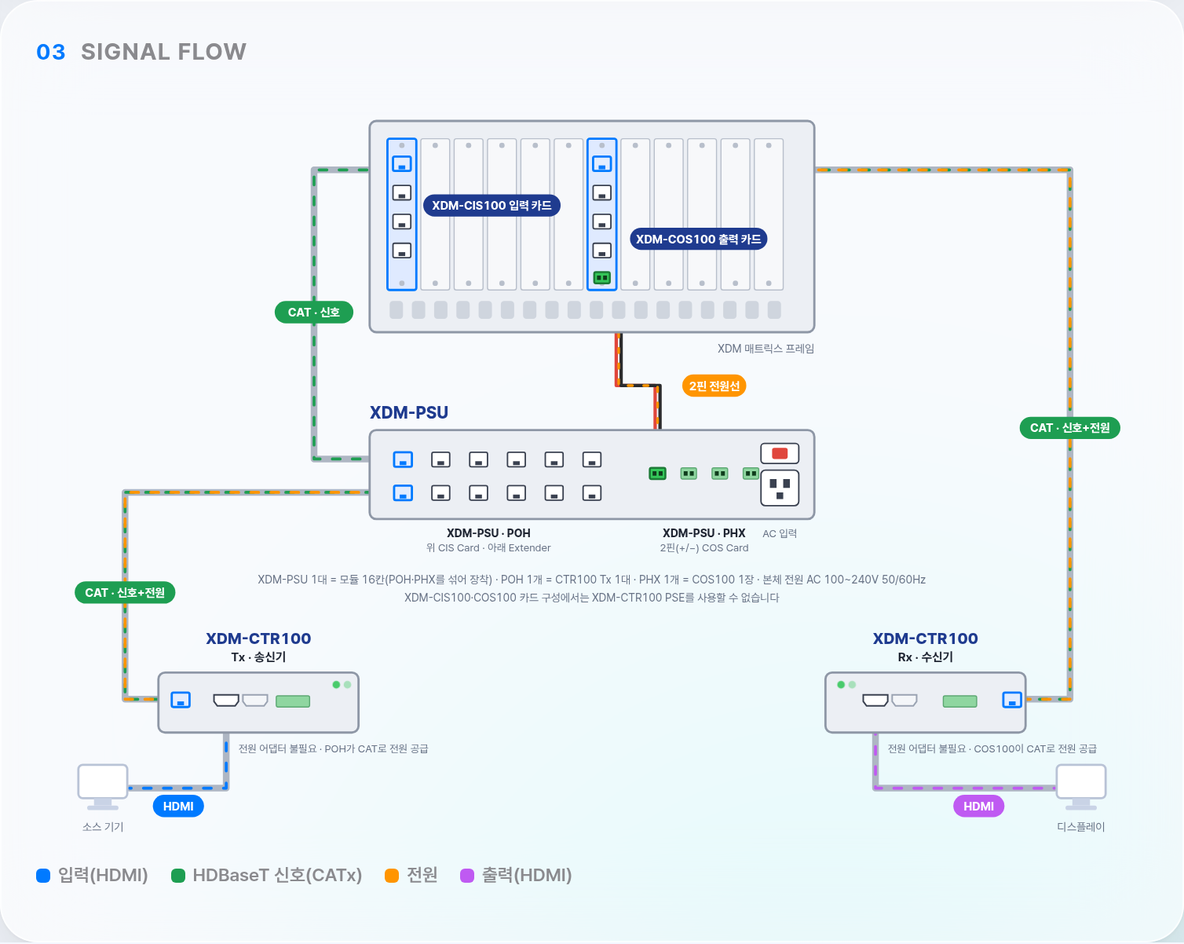
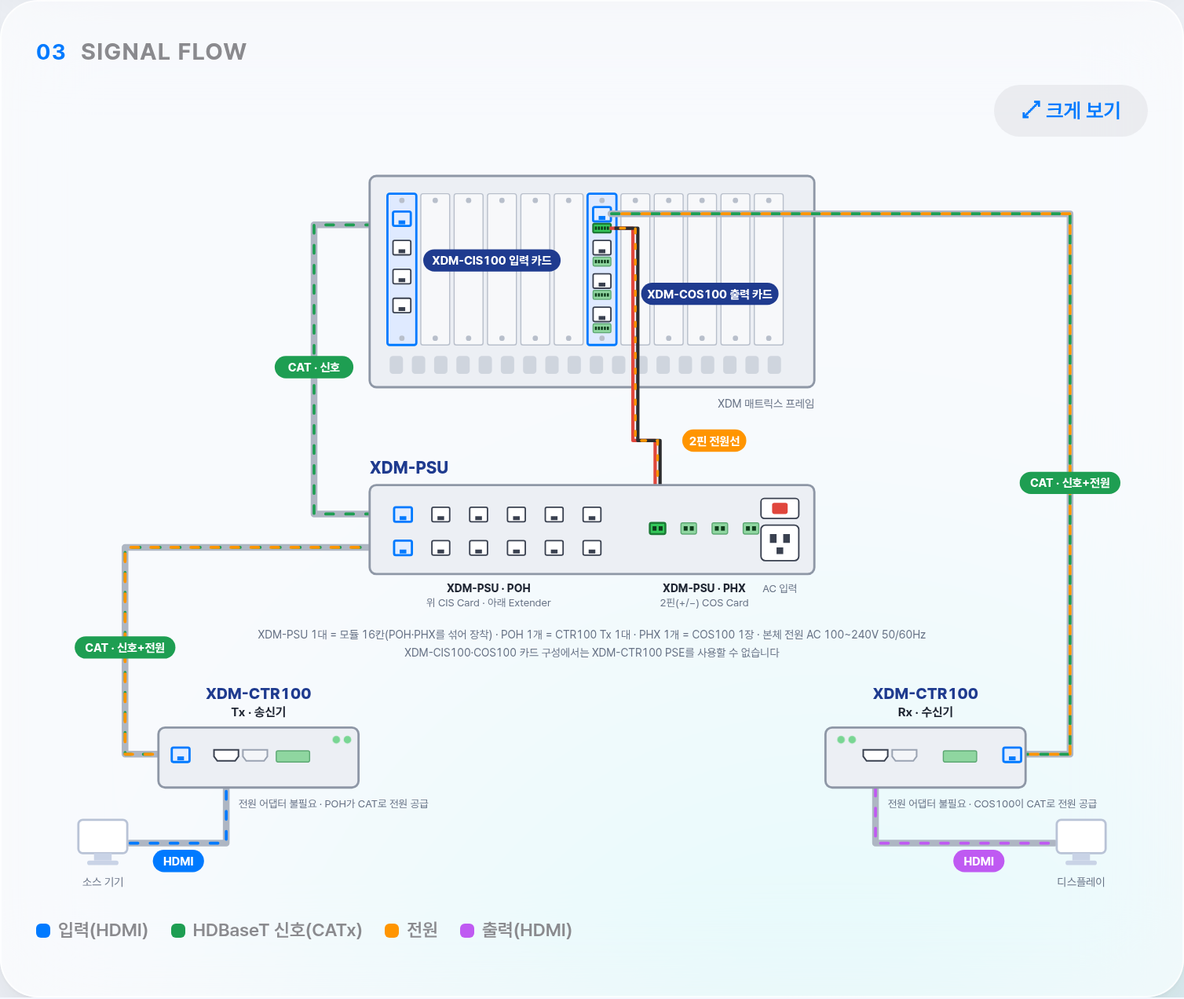
XDM-PSU Signal Flow: COS100 피닉스 전원 연결 정정 + 크게 보기 확대 창, 0.99.0
COS100을 포트마다 RJ45+피닉스 5핀으로 그리고 PHX 2핀 전원선이 1번 포트 피닉스에
꽂히게 함(사용자 확인 "COS PHNIX픽에 전원연결"). XDM-PSU만 "크게 보기" 버튼·전체 화면
창(100~300%, Esc 닫기)을 추가. e2e 151/151.

Claude-Session: https://claude.ai/code/session_01V3dms2CC6NHWtyRSKKrJnV

diff --git a/src/products.js b/src/products.js
@@ -300,6 +300,7 @@
       const width=1000,height=680,INK='#1f2532',SUB='#687386',BODY='#eceff4',EDGE='#8e97a6',HI='#007AFF',TAG='#1f3b8f';
       const rj45=(x,y,on)=>`<g><rect x="${x}" y="${y}" width="16" height="13" rx="1.5" fill="${on?'#e3edff':'#fff'}" stroke="${on?HI:'#3a4150'}" stroke-width="${on?2:1.3}"/><rect x="${x+5}" y="${y+8}" width="6" height="3.5" fill="${on?HI:'#3a4150'}"/></g>`;
       const pin2=(x,y,on)=>`<g><rect x="${x}" y="${y}" width="14" height="10" rx="1.5" fill="${on?'#34C759':'#8fd6a0'}" stroke="${on?'#1c7a36':'#5da873'}" stroke-width="${on?1.8:1}"/><rect x="${x+2.5}" y="${y+3}" width="3.5" height="4" fill="#0f3d1c"/><rect x="${x+8}" y="${y+3}" width="3.5" height="4" fill="#0f3d1c"/></g>`;
+      const phoenix5=(x,y,on)=>`<g${on?' class="rt-psu-cos-pin"':''}><rect x="${x}" y="${y}" width="16" height="8" rx="1.2" fill="${on?'#34C759':'#8fd6a0'}" stroke="${on?'#1c7a36':'#5da873'}" stroke-width="${on?1.6:1}"/>${[0,1,2,3,4].map(i=>`<rect x="${x+1.6+i*2.7}" y="${y+2.5}" width="1.8" height="3" fill="#0f3d1c"/>`).join('')}</g>`;
       const hdmi=(x,y,on)=>`<path d="M${x} ${y}h22v6l-3 4h-16l-3-4z" fill="${on?'#fff':'#f4f6f9'}" stroke="${on?'#3a4150':'#9aa3b2'}" stroke-width="1.4"/>`;
       const pill=(x,y,text,fill=TAG)=>{const w=Math.max(46,text.length*6.6+18);return `<g><rect x="${x-w/2}" y="${y-10}" width="${w}" height="20" rx="10" fill="${fill}"/><text x="${x}" y="${y+4}" text-anchor="middle" font-size="10.5" font-weight="750" fill="#fff">${svgEsc(text)}</text></g>`};
       // 케이블 한 가닥: 회색 피복 위에 흐름 점선을 겹친다. flows=[[색, 방향(1 정방향·-1 역방향), 시작 어긋남]]
@@ -307,15 +308,11 @@
       const twoPin=d=>`<path d="${d}" fill="none" stroke="#e0463c" stroke-width="3" stroke-linejoin="round" transform="translate(-2.2 0)"/><path d="${d}" fill="none" stroke="#2c2c2e" stroke-width="3" stroke-linejoin="round" transform="translate(2.2 0)"/><path class="rt-psu-flow" d="${d}" fill="none" stroke="${COLOR_POWER}" stroke-width="2.4" stroke-linecap="round" stroke-dasharray="4 10"/>`;
       let body='';
       // ---- 케이블(장비보다 먼저 그려 장비 몸체 아래로 들어가게 한다) ----
-      const cisPort=[336,62],cosPort=[516,62],cosPin=[517,170],pohCis=[322,322],pohExt=[322,352],phx=[552,336],txRj=[122,538],rxRj=[870,538];
+      const cisPort=[336,62],cosPort=[501,52],cosPin=[501,67],pohCis=[322,322],pohExt=[322,352],phx=[552,336],txRj=[122,538],rxRj=[870,538];
       // ① POH "CIS Card" ↔ CIS100: 신호만(Tx에서 온 영상이 CIS100으로 들어감)
       body+=cable(`M${pohCis[0]} ${pohCis[1]+6}H250V${cisPort[1]+6}H${cisPort[0]}`,[[COLOR_COPPER,1]]);
       // ② CTR100 Tx ↔ POH "Extender": 신호는 Tx → PSU, 전원은 PSU → Tx(역방향)
       body+=cable(`M${txRj[0]} ${txRj[1]+6}H80V${pohExt[1]+6}H${pohExt[0]}`,[[COLOR_COPPER,1],[COLOR_POWER,-1,9]]);
-      // ③ PHX 2핀 → COS100 2핀 전원선
-      body+=twoPin(`M${phx[0]+7} ${phx[1]}V262H${cosPin[0]+7}V${cosPin[1]+10}`);
-      // ④ COS100 → CTR100 Rx: 신호와 전원이 함께 Rx로
-      body+=cable(`M${cosPort[0]+16} ${cosPort[1]+6}H930V${rxRj[1]+6}H${rxRj[0]+16}`,[[COLOR_COPPER,1],[COLOR_POWER,1,9]]);
       // HDMI: 소스 → Tx HDMI IN, Rx HDMI OUT → 디스플레이
       body+=cable('M84 624H171V574',[[COLOR_IN,1]]);
       body+=cable('M755 574V624H916',[[COLOR_OUT,1]]);
@@ -324,12 +321,17 @@
       for(let i=0;i<12;i++){
         const x=316+i*30,card=i===0?'CIS':i===6?'COS':'';
         body+=`<rect x="${x}" y="40" width="26" height="136" rx="2" fill="${card?'#dfeaff':'#f7f8fa'}" stroke="${card?HI:'#b8bfcb'}" stroke-width="${card?2:1}"/><circle cx="${x+13}" cy="46" r="2.4" fill="#b8bfcb"/><circle cx="${x+13}" cy="170" r="2.4" fill="#b8bfcb"/>`;
-        if(card)for(let p=0;p<4;p++)body+=rj45(x+5,56+p*26,p===0);
-        if(card==='COS')body+=pin2(x+6,160,true).replace(/<circle[^>]*>/g,'');
+        if(card==='CIS')for(let p=0;p<4;p++)body+=rj45(x+5,56+p*26,p===0);
+        // 0.99 COS100: 포트마다 RJ45 아래에 피닉스 5핀(오디오 추출 및 PoE)이 있고, PHX 2핀 전원선은 이 피닉스 단자에 꽂는다(사용자 확인 2026-09-28 "COS PHNIX픽에 전원연결", 카탈로그 COS100 사진).
+        if(card==='COS')for(let p=0;p<4;p++)body+=rj45(x+5,52+p*30,p===0)+phoenix5(x+5,67+p*30,p===0);
       }
       for(let v=0;v<18;v++)body+=`<rect x="${318+v*20}" y="186" width="12" height="16" rx="3" fill="#cfd5de"/>`;
       body+=pill(410,100,'XDM-CIS100 입력 카드');
-      body+=pill(596,130,'XDM-COS100 출력 카드');
+      body+=pill(606,130,'XDM-COS100 출력 카드');
+      // ③ PHX 2핀 → COS100 1번 포트 피닉스 단자(프레임 위로 그려 꽂히는 곳이 보이게 한다)
+      body+=twoPin(`M${phx[0]+7} ${phx[1]}V262H539V${cosPin[1]+4}H${cosPin[0]+17}`);
+      // ④ COS100 1번 RJ45 → CTR100 Rx: 신호와 전원이 함께 Rx로
+      body+=cable(`M${cosPort[0]+16} ${cosPort[1]+6}H930V${rxRj[1]+6}H${rxRj[0]+16}`,[[COLOR_COPPER,1],[COLOR_POWER,1,9]]);
       body+=`<text x="700" y="232" text-anchor="end" font-size="10" fill="${SUB}">XDM 매트릭스 프레임</text>`;
       // ---- XDM-PSU 후면(POH·PHX 모듈, AC 인렛) ----
       body+=`<text x="300" y="292" font-size="15" font-weight="800" fill="${TAG}">XDM-PSU</text>`;
@@ -362,7 +364,8 @@
       const ac=(item.specifications||[]).find(spec=>spec.name==='전원');
       body+=`<text x="${width/2}" y="440" text-anchor="middle" font-size="10" fill="${SUB}">XDM-PSU 1대 = 모듈 16칸(POH·PHX를 섞어 장착) · POH 1개 = CTR100 Tx 1대 · PHX 1개 = COS100 1장${ac?` · 본체 전원 ${svgEsc(ac.value)}`:''}</text>`;
       body+=`<text x="${width/2}" y="456" text-anchor="middle" font-size="10" fill="${SUB}">XDM-CIS100·COS100 카드 구성에서는 XDM-CTR100 PSE를 사용할 수 없습니다</text>`;
-      return diagramWrap(`<g class="rt-psu-anim">${body}</g>`,width,height,[[COLOR_IN,'입력(HDMI)'],[COLOR_COPPER,'HDBaseT 신호(CATx)'],[COLOR_POWER,'전원'],[COLOR_OUT,'출력(HDMI)']]);
+      // 0.99: XDM-PSU만 그림이 커서 "크게 보기"(전체 화면 확대 창)를 둔다(사용자 요청 2026-09-28 "xdm-psu만 03 Singal flow 확대해서 볼 수 있게해줘"). 그림을 눌러도 열린다.
+      return `<div class="rt-flow-zoom-bar"><button type="button" class="rt-pg-btn" data-flow-zoom>⤢ 크게 보기</button></div>`+diagramWrap(`<g class="rt-psu-anim">${body}</g>`,width,height,[[COLOR_IN,'입력(HDMI)'],[COLOR_COPPER,'HDBaseT 신호(CATx)'],[COLOR_POWER,'전원'],[COLOR_OUT,'출력(HDMI)']]);
     }
     function extenderDiagram(item){
       const io=item.io||[];
@@ -917,6 +920,12 @@
       if(sideBtn){const seg=sideBtn.closest('.rt-pg-seg'),scope=seg?.parentElement;if(scope){seg.querySelectorAll('[data-pm-side]').forEach(btn=>{const on=btn===sideBtn;btn.classList.toggle('rt-pg-on',on);btn.setAttribute('aria-pressed',String(on))});scope.querySelectorAll('[data-pm-face]').forEach(el=>{el.hidden=el.dataset.pmFace!==sideBtn.dataset.pmSide})}return}
       const diagramBtn=event.target.closest('[data-open-diagram]');
       if(diagramBtn){const record=body.querySelector('.rt-pg-record');if(record){record.open=true;record.querySelector('#rt-pg-diagram-photo')?.scrollIntoView({behavior:'smooth',block:'start'})}return}
+      // 0.99 XDM-PSU Signal Flow 확대 창: 그림을 복사해 전체 화면 창에 넣고 100%(화면 폭 맞춤)~300%로 키운다. 창 안에서 스크롤·손가락으로 옮겨 본다.
+      const flowZoom=event.target.closest('[data-flow-zoom]')||(event.target.closest('.rt-pg-svg-wrap')?.querySelector('.rt-psu-anim')&&event.target.closest('.rt-pg-svg-wrap'));
+      if(flowZoom){openFlowZoom(flowZoom.closest('section'));return}
+      const zoomStep=event.target.closest('[data-zoom-step]');
+      if(zoomStep){const dlg=zoomStep.closest('dialog');setFlowZoom(dlg,Number(dlg.dataset.zoom)+Number(zoomStep.dataset.zoomStep));return}
+      if(event.target.closest('[data-zoom-close]')){event.target.closest('dialog').close();return}
       const moreBtn=event.target.closest('[data-more-features]');
       if(moreBtn){const more=body.querySelector('[data-feature-more]');if(more){more.hidden=false;moreBtn.hidden=true}return}
       const layoutChip=event.target.closest('[data-layout-chip]');
@@ -930,6 +939,30 @@
         return;
       }
     });
+    const FLOW_ZOOMS=[1,1.5,2,3];
+    function setFlowZoom(dlg,index){
+      const i=Math.max(0,Math.min(FLOW_ZOOMS.length-1,index));
+      dlg.dataset.zoom=String(i);
+      dlg.querySelector('.rt-flow-zoom-canvas').style.width=`${FLOW_ZOOMS[i]*100}%`;
+      dlg.querySelector('[data-zoom-level]').textContent=`${FLOW_ZOOMS[i]*100}%`;
+      dlg.querySelector('[data-zoom-step="-1"]').disabled=i===0;
+      dlg.querySelector('[data-zoom-step="1"]').disabled=i===FLOW_ZOOMS.length-1;
+    }
+    function openFlowZoom(section){
+      const svg=section?.querySelector('.rt-pg-svg-wrap svg');
+      if(!svg)return;
+      let dlg=body.querySelector('dialog.rt-flow-zoom');
+      if(!dlg){
+        dlg=document.createElement('dialog');dlg.className='rt-flow-zoom';dlg.setAttribute('aria-label','Signal Flow 크게 보기');
+        dlg.addEventListener('click',event=>{if(event.target===dlg)dlg.close()});
+        body.appendChild(dlg);
+      }
+      const title=body.querySelector('#rt-pg-title')?.textContent||'';
+      dlg.innerHTML=`<div class="rt-flow-zoom-head"><b>${esc(title)} · 03 Signal Flow</b><div class="rt-flow-zoom-tools"><button type="button" data-zoom-step="-1" aria-label="축소">−</button><span data-zoom-level aria-live="polite">100%</span><button type="button" data-zoom-step="1" aria-label="확대">+</button><button type="button" class="rt-flow-zoom-close" data-zoom-close aria-label="닫기">×</button></div></div><div class="rt-flow-zoom-body"><div class="rt-flow-zoom-canvas">${svg.outerHTML}</div></div>`;
+      setFlowZoom(dlg,0);
+      if(typeof dlg.showModal==='function')dlg.showModal();else dlg.setAttribute('open','');
+      dlg.querySelector('[data-zoom-step="1"]').focus();
+    }
     body.addEventListener('keydown',event=>{
       const filterBtn=event.target.closest('[data-product-filter]');
       if(filterBtn&&(event.key==='Enter'||event.key===' ')){event.preventDefault();filterBtn.click()}

diff --git a/index.html b/index.html
@@ -1,7 +1,7 @@
 <!doctype html>
 <html lang="ko"><head><meta charset="utf-8"><meta name="viewport" content="width=device-width,initial-scale=1"><title>RTCOM 매트릭스 구성기</title><meta name="description" content="RTCOM XDM, SPX, VDM 매트릭스 카드 슬롯 구성기와 알티컴 공개 제품정보"></head><body><div id="rtcom-design" aria-label="RTCOM 매트릭스 구성기">
   <link rel="stylesheet" href="src/styles.css">
-  <header class="rt-top"><a class="rt-brand-lockup" href="./"><span class="rt-brand-mark" aria-hidden="true">▦</span><span><span class="rt-brand">RT<span>COM</span> Matrix Configurator</span><span class="rt-brand-sub">XDM · SPX · VDM CARD SLOT DESIGN</span></span></a><nav class="rt-view-tabs" aria-label="화면 전환"><a data-view-tab="configurator" href="#matrix-configurator" aria-current="page">매트릭스 구성기</a><a data-view-tab="products" href="#products">알티컴 제품정보</a></nav><div class="rt-top-links"><a class="rt-portal-link" href="https://seoulav.github.io/AV-Portal/" target="_blank" rel="noopener">AV Portal에서 제품 찾기 <span aria-hidden="true">↗</span><span class="rt-visually-hidden">(새 창)</span></a><div class="rt-meta"><b>AV 시스템 설계 도구</b><br>CATALOG BASED · 0.98</div></div></header>
+  <header class="rt-top"><a class="rt-brand-lockup" href="./"><span class="rt-brand-mark" aria-hidden="true">▦</span><span><span class="rt-brand">RT<span>COM</span> Matrix Configurator</span><span class="rt-brand-sub">XDM · SPX · VDM CARD SLOT DESIGN</span></span></a><nav class="rt-view-tabs" aria-label="화면 전환"><a data-view-tab="configurator" href="#matrix-configurator" aria-current="page">매트릭스 구성기</a><a data-view-tab="products" href="#products">알티컴 제품정보</a></nav><div class="rt-top-links"><a class="rt-portal-link" href="https://seoulav.github.io/AV-Portal/" target="_blank" rel="noopener">AV Portal에서 제품 찾기 <span aria-hidden="true">↗</span><span class="rt-visually-hidden">(새 창)</span></a><div class="rt-meta"><b>AV 시스템 설계 도구</b><br>CATALOG BASED · 0.99</div></div></header>
   <section class="rt-configurator-view" aria-label="매트릭스 구성기">
     <div id="matrix-configurator" class="rt-configurator-anchor"><h1 class="rt-visually-hidden" tabindex="-1">매트릭스 구성기 — 프레임을 선택하고 실제 슬롯 위치에 입력·출력 카드를 장착해 구성합니다.</h1></div>
     <div class="rt-workspace"><div class="rt-tools"><button class="rt-button" data-tool="undo" disabled>↶ 실행 취소</button><button class="rt-button" data-tool="redo" disabled>↷ 다시 실행</button><button class="rt-button" data-tool="backup">JSON 백업</button><button class="rt-button" data-tool="import">불러오기</button><button class="rt-button" data-tool="reset">새 구성</button></div><p id="save-status" role="status" aria-live="polite">이 브라우저에 자동 저장됩니다.</p><input id="import-file" type="file" accept=".json,application/json" hidden></div><nav class="rt-nav" aria-label="구성 단계"></nav>

diff --git a/src/styles.css b/src/styles.css
@@ -976,3 +976,18 @@ html{background:#f3f3ef}body{margin:0;padding:24px 16px;font-family:Arial,'Malgu
 @keyframes rt-psu-dash{to{stroke-dashoffset:-18}}
 @keyframes rt-psu-led{50%{opacity:.25}}
 @media(prefers-reduced-motion:reduce){#rtcom-design .rt-psu-flow,#rtcom-design .rt-psu-led{animation:none}}
+/* 0.99 XDM-PSU Signal Flow "크게 보기" 확대 창(XDM-PSU만). 창을 화면 가득 띄우고 −/+로 100~300% 확대, 창 안에서 스크롤해 옮겨 본다. */
+#rtcom-design .rt-flow-zoom-bar{display:flex;justify-content:flex-end;margin:-6px 0 8px}
+#rtcom-design .rt-pg-svg-wrap:has(.rt-psu-anim) svg{cursor:zoom-in}
+#rtcom-design .rt-flow-zoom{width:min(1400px,calc(100vw - 16px));height:calc(100vh - 24px);max-width:none;max-height:none;padding:0;border:0;border-radius:20px;background:#fff;color:var(--pg-ink,#1f2532);box-shadow:0 30px 80px #0f172a59;overflow:hidden}
+#rtcom-design .rt-flow-zoom[open]{display:flex;flex-direction:column}
+#rtcom-design .rt-flow-zoom::backdrop{background:#0f172aa6;backdrop-filter:blur(3px)}
+#rtcom-design .rt-flow-zoom-head{display:flex;align-items:center;justify-content:space-between;gap:10px;padding:12px 14px 12px 20px;border-bottom:1px solid #e8edf5}
+#rtcom-design .rt-flow-zoom-head b{font-size:15px;font-weight:800}
+#rtcom-design .rt-flow-zoom-tools{display:flex;align-items:center;gap:6px}
+#rtcom-design .rt-flow-zoom-tools button{width:38px;height:38px;border:0;border-radius:50%;background:#f0f4fa;color:#415069;font-size:20px;line-height:1;cursor:pointer}
+#rtcom-design .rt-flow-zoom-tools button:disabled{opacity:.35;cursor:default}
+#rtcom-design .rt-flow-zoom-tools span{min-width:46px;text-align:center;font-size:13px;font-weight:700;color:#415069}
+#rtcom-design .rt-flow-zoom-body{flex:1;overflow:auto;padding:12px;-webkit-overflow-scrolling:touch}
+#rtcom-design .rt-flow-zoom-canvas svg{display:block;width:100%;height:auto}
+@media print{#rtcom-design .rt-flow-zoom-bar{display:none}}

diff --git a/CLAUDE.md b/CLAUDE.md
@@ -50,7 +50,7 @@
 
 - 현재 화면 버전은 `index.html`의 우측 상단 표기와 `README.md`에 함께 기록합니다.
 - 원본 `main`에 기능 묶음을 병합할 때 마이너 버전을 올리고, 같은 커밋에서 `CHANGELOG.md`를 갱신합니다.
-- 구성기 단일 화면 전환은 `0.7.0`, Analog Way 방식 화면 개편은 `0.8.0`, 전송기 자동 연동은 `0.9.0`, HDMI 카드 PSE 쌍 연장은 `0.10.0`, SPX 매뉴얼 사진 슬롯은 `0.11.0`, VDM-256X 추가는 `0.12.0`, VDM 매뉴얼 후면 도면 슬롯은 `0.13.0`, 휴대폰 슬롯 겹침·뒤로가기 수정은 `0.14.0`, VDM 전면 도면은 `0.15.0`, 사진 슬롯 판넬 잘림 수정은 `0.16.0`, 장착 슬롯 번호표 숨김·구성 요약 카드 확대는 `0.17.0`, XDM 판넬 손나사 잘림 수정·VDM 전송기 연동·로고 홈 이동 확인은 `0.18.0`, 알티컴 공개 제품정보(29종) 재게시는 `0.19.0`, 제품정보 상세 표기를 에이앤미디어(antez.co.kr) 방식으로 정리한 것은 `0.20.0`, 데이터 기반 연결 다이어그램 추가는 `0.21.0`, 제품 사양 표를 구분·사양 2단으로 정리한 것은 `0.22.0`, 휴대폰 가로 스크롤(긴 출처 경로) 수정은 `0.23.0`, HD-14U·HD-18U 모델명 정정과 VDM CT102-U·FT102-U 계열 제외는 `0.24.0`, 제조사 카탈로그 원본 연결 다이어그램 적용은 `0.25.0`, 제품 사양 표 디자인(분류 색 점) 다듬기는 `0.26.0`, 새 카탈로그로 나머지 25종 재검증·XDM-CTR100 조합 다이어그램은 `0.27.0`, 연결 다이어그램 가로 스크롤 안내(그러데이션 표시)와 XDM-CTR100 케이블별 최대 전송거리(CI6522 80m) 추가는 `0.28.0`, VDM HOS4-U·HOS4S-UW 카드 설명을 스위칭 방식(일반·심리스)으로 정리하고 XDM-288을 구성기에서 삭제한 것은 `0.29.0`, XDM-CTR100 연결 다이어그램 조합 1을 매트릭스 카드 직결 배선으로 바로잡고 제조사 원본 다이어그램에 출처 캡션·표기 다름 경고를 추가하고 6개 제품과 SPX 다이어그램을 다시 잘라낸 것은 `0.30.0`, VDM 전송기 4종(CT101-U/CR101-U·CT103-U-H/CR103-U·FT101-U/FR101-U·FT103-U-H/FR103-U)에 RS-232 단자 행을 추가하고 이 4종과 CT104-U/CR104-U를 46쪽판과 재대조하고 27종 전체의 카탈로그 쪽 표기를 46쪽판 기준으로 통일한 것은 `0.31.0`, `docs/audit/PRODUCT_DIAGRAM_REVIEW_2026-09-27.md` §6 판단표대로 13개 제품의 검토 필요 항목을 정리해 REVIEW REQUIRED 배지를 없앤 것은 `0.32.0`, 제품정보 화면을 사용자 LED 구성기 계승 글래스 디자인으로 개편한 것(`docs/handoff/PRODUCT_GLASS_REDESIGN_SPEC.md` 6-A: 기반·HD-210U·XDM·VDM·SPX)은 `0.33.0`, 나머지 23종(분배기·일체형·전송기·케이블)에 lead·subtitle·portMap을 채우고 분배기·일체형 신호 흐름을 승인 시안 방식으로 바꾸고 QMS 화면 구성 모드(videoModes)를 추가한 것(6-B)은 `0.34.0`, HD-13U 상세에 전면 EDID 로터리 스위치 위치 표시와 EDID 코드표(edidSwitch, 사용자 제공 매뉴얼 근거)를 추가한 것은 `0.35.0`, HD-104U·HD-108U 모델명 표기를 0.24.0 정정 이전으로 되돌리고(사용자 확인 2026-09-27: 카탈로그 표기는 HD-104U·HD-108U이며 실크만 14U·18U로 변경 예정) HD-210U 전면 설정 스위치(딥 스위치·EDID 로터리) 추가와 신호 흐름 매트릭스 판정 복원을 함께 묶은 것은 `0.36.0`, 매트릭스 구성기 화면을 Analog Way 구조 + LED 글래스 스킨으로 개편하고 블랭크 커버(`placements`의 예약값 `"BLANK"`)로 슬롯 구성을 완성하는 기능을 추가한 것(`docs/handoff/CONFIGURATOR_AW_GLASS_SPEC.md`, 사용자 결정 2026-09-27)은 `0.37.0`, 0.37.0에서 시안과 다르게 남겨 둔 04 전송기 화면을 사용자 검토 후 좌우 분할 구조(01·02와 같은 틀)로 다시 지은 것(`docs/implementation/CONFIGURATOR_AW_GLASS.md` "04 전송기(편차 — 0.38.0에서 해소)")은 `0.38.0`, 제품 상세 "01 한눈에 보기" 위에 큰 사진 띠와 누르면 확대되는 돋보기(라이트박스)를 추가하고 화면에 보이는 제품 사양·주요 기능의 "up to" 표기를 "최대"로 통일하고 제품정보 "확인 사항" 118건을 2건으로 정리(HD-210U 크기 355mm 정정, `docs/audit/PRODUCT_ISSUES_ARCHIVE_2026-09-27.md`)한 것은 `0.39.0`, HD-13U "05 주요 기능"에 오디오 병합(믹스)·추출(디먹스) 동시 사용 안내(매뉴얼 7쪽 근거)를 추가한 것은 `0.40.0`, 분배기(HD-13U·HD-104U·HD-108U·HD-210U) EDID 로터리 코드표에서 자주 쓰는 1·7번을 강조하고 "02 신호 흐름"에 오디오 병합·추출(AUDIO OUT·"추출" 표시)을 추가한 것은 `0.41.0`, 사진 없이 입출력 표 카드로만 보이던 7종(HD-D102U·XDM-CTR100·전송기 5종)의 단자 지도를 HD-13U처럼 실제 제품 사진 기준으로 바꾸고 `portMap`이 송신기·수신기 사진 여러 장을 받게 한 것은 `0.42.0`, HDS-21U·HDS-42MU에 EDID 로터리(edidSwitch)를 추가하고 오디오 병합 설명을 "HDMI OUTPUT에 실리는 오디오" 기준으로 정정하고 분배기·선택기 필터를 HDMI 출력 개수 순으로 정렬하고 XDM-CTR100 "02 신호 흐름" 케이블 최대 전송거리 표기를 다이어그램 하단 한쪽으로 모은 것은 `0.43.0`, 분배기·선택기 필터 정렬을 분배기(Splitter)가 먼저 나오고 셀렉터(Switcher)가 나중에 나오도록(같은 종류 안에서는 HDMI 출력 개수 순) 바꾼 것은 `0.44.0`, 사용자 제공 매뉴얼 3권으로 벽부형 XDM-CT103·CT103-U-H/CR103-U·FT103-U-H/FR103-U의 단자 지도·사양·EDID 표를 보완하고 단자 지도에 세로 괄호·표시 폭·안내 줄을 추가한 것은 `0.45.0`, XDM-CTR100 PSE 제품 안내서와 XDM-CTR100 매뉴얼 Ver.1.4로 CTR100 단자 역할(HDMI IN·OUT, 5핀 오디오 출력, 상태 LED)·딥 스위치 설정·PSE 크기·전원을 보완한 것은 `0.46.0`, 옛 PR #22에만 있던 사용자 결정(XDM-CTR100과 XDM-CTR100 PSE를 별도 제품으로 분리해 28종, QMS-88UX 쿼드 뷰 출력 9·10번 사용법, 모델명 줄바꿈 방지)을 현재 main 기준으로 다시 옮기고 HD-13U 오디오 병합·추출을 선택 방식으로 정정해 07 오디오 설정 카드를 추가하고 모든 제품의 단자 지도 번호를 HDMI 입력 → 출력 → 오디오 → … → 전원(마지막) 순으로 통일한 것은 `0.47.0`, QMS-88UX 출력 9·10번 멀티뷰의 12가지 레이아웃·입력 그룹·출력 옵션을 사용자 제공 매뉴얼 20~23쪽 근거로 "주요 기능"에 적은 것은 `0.48.0`, HDS-21U·HDS-42MU 오디오 병합·추출을 딥 스위치 1번 선택 방식으로 정정하고 07 오디오 설정 카드를 추가하고 사용자 제공 매뉴얼 Ver.1.0으로 Priority·분배 기능 딥 스위치를 보완하고 제품 사진 팝업을 사용자 LED 계산기 "05 프로세서" 방식(사진 탭·원형 돋보기)으로 바꾼 것은 `0.49.0`, QMS-88UX "02 신호 흐름"에서 멀티뷰 출력 9·10번을 매트릭스 출력과 분리된 별도 갈래(패널·캡션)로 다시 그리고 "05 주요 기능" 멀티뷰 항목을 요약하고 오디오 출력 2개(QD1·QD2)가 선택 가능한 출력임을 반영한 것은 `0.50.0`, QMS-88UX "04 제품 사양"의 조건 칸(부설)을 모두 비우고 LAN(Telnet & Web Browser) 표기를 사양·기능·개요·단자 지도에서 모두 뺀 것은 `0.51.0`, HDS-42MU 크기를 사용자 결정에 따라 매뉴얼 값 232×65×30mm로 바꾸고 제품 상세의 "자료 출처·검토 기록"을 "제조사 자료"로 이름을 바꿔 화면의 출처 표시를 뺀 것은 `0.52.0`, QMS-88UX 오디오 QD1·QD2 설명 정리·"02 신호 흐름" 오디오 추출 점선과 멀티뷰 8입력분할 표현 정리·입출력 단자 표 정렬 통일(TX→구분 없음→RX, 영상→오디오→전송→제어, 입력→출력→양방향)·"제조사 자료"에서 표기 다름·참고 사항도 추가로 뺀 것과 조건 칸의 출처 문구를 지우고 "05 주요 기능"을 한 줄 요약으로 줄인 것(상세는 06·07 카드·사양·단자 지도로 이동)은 `0.53.0`, XDM-CTR100·CTR100 PSE "04 제품 사양"의 딥 스위치 행을 다시 삭제(딥 스위치는 05 주요 기능에서만 안내)하고 전 제품 "05 주요 기능"을 추가로 압축하고 매트릭스 COS/CIS/FIS/FOS 카드와 짝인 전송기 3종(XDM-CTR100·CTR100 PSE·FT101/FR101)에 RS-232+ 패스스루(AMX 등 통합 제어 신호를 매트릭스·전송기 너머로 전달) 안내를 추가하고 "02 신호 흐름"의 케이블 최대 전송거리 표기를 범례 "출력" 항목 오른쪽으로 옮긴 것은 `0.54.0`, 구성기 확인 창을 사이트 글래스 스타일 대화상자로 바꾸고 카드 팝업에 수량 채우기와 같은 방향 슬롯 이동(끌어 옮기기·팝업 이동)을 추가하고 XDM 세로 슬롯 카드를 180도 돌리고 2U 이상만 정면·후면 버튼(그보다 작으면 정면 사진과 포트 연결면을 함께 표시)으로 하고 구성기 작업 단계 표기를 한글로 바꾸고 Delete 키 카드 빼기와 XDM RS-232+(CIS·COS·FIS·FOS 카드와 짝 전송기) 표기를 더한 것은 `0.55.0`, 전 제품 "05 주요 기능" 카탈로그 어투 통일("~ 지원")·"01 한눈에 보기" 위 사진 띠 삭제·"02 신호 흐름"과 "03 단자 지도" 순서 교체 및 영문 표기(Signal Flow·Port Map)·화면 구성 모드 등 06 카드를 05 옆으로 배치·QMS-88UX 06 화면 구성 모드 레이아웃 12종 클릭 미리보기 추가·HDS-21U·HDS-42MU 단자 지도를 정면·후면 선택 버튼 없이 위아래 합성 사진 한 장(번호 1~7, EDID 로터리 6번·전원 7번)으로 바꾼 것은 `0.56.0`, 05 옆으로 옮긴 06 카드가 휴대폰에서 01보다 먼저 뜨던 순서 버그를 고치고(rt-pg-col-mobile-6 클래스 추가) 15개 제품 "05 주요 기능"의 "~할 수 있다." 표현 24곳을 명사형으로 정리한 것은 `0.57.0`, HDS-21U·HDS-42MU 단자 지도에 MODE 딥 스위치 번호(7번)를 추가하고 07 오디오 설정 카드를 딥 스위치 그림(번호별 OFF·ON) 카드인 07 딥 스위치 설정으로 바꾸고(1번 오디오 병합·추출, 2번 Priority, 42MU만 3번 분배) 04 제품 사양의 딥 스위치 행과 05 주요 기능의 긴 설명을 이 카드로 옮기고 매트릭스 제품(QMS-44UX·QMS-88UX·HDS-42MU) "03 Signal Flow"를 입력이 한 점으로 모이는 모양 대신 크로스포인트(출력마다 입력 선택 예시)로 다시 그리고 HDS-42MU 정면 사진의 잘못 인쇄된 실크(MODE·EDID)를 사진 안에서 서로 바꾼 것은 `0.58.0`, EDID 로터리 태그 잘림·06 EDID 카드 배치·긴 코드표 좌우 분할을 고치고 EDID 설정 카드에 기본값·자주 쓰는 코드를 파란 16단 로터리 그림(화살표가 코드를 가리킴)으로 보여주고 HDS-21U·HDS-42MU(3·9번)·FT103-U-H/FR103-U(3·6번)에 자주 쓰는 코드 강조를 더하고 EDID 코드표 세로 크기를 줄인 것은 `0.59.0`, 04 제품 사양 표 줄 간격을 약 15% 줄이고 03 Signal Flow에서 AUDIO OUT "추출" 표시가 잘리던 그림 너비 계산을 고친 것은 `0.60.0`, HD-13U 07 오디오 설정을 06 EDID 다음 전체 폭으로 옮겨 잘림·번호 뒤집힘을 고치고 EDID 대표 설정과 같은 칸 4개(MODE 로터리 0번 → SET 누름 → OUT 1 LED 깜빡임·깜빡이지 않음)를 넣고 HD-210U에 매뉴얼 Ver.1.2 근거 07 딥 스위치 설정 카드(1번 오디오 병합, 2번 DDC)를 추가한 것은 `0.61.0`, 딥 스위치 카드가 있는 HD-210U·HDS-21U·HDS-42MU의 05 주요 기능에서 스위치 번호 참조를 지우고 HD-210U(5줄)·HD-13U(3줄) 05 주요 기능을 기능 이름만 남겨 정리하고 HDS-21U·HDS-42MU 딥 스위치 칸을 ON → OFF 순서로 바꾼 것은 `0.62.0`, QMS-44UX·QMS-88UX "06 화면 구성 모드" 카드가 05 옆 좁은 칸에 들어가면서 모드 카드 설명·레이아웃 칩이 카드 밖으로 넘치던 문제를 edidSwitch와 같은 기준(항상 전체 폭 아래)으로 고친 것은 `0.63.0`, SPX-TX/RX 전송기를 29번째 제품으로 추가(매뉴얼 Ver.2.0: 사양·단자 지도·딥 스위치 조합)하고 XDM-FT101/FR101에 매뉴얼 Ver.1.3 근거 EDID·오디오 로터리 카드(전체 8칸 그림)를 넣고 SPX 안내·범례의 HDBaseT 표기를 CATx로 바로잡고 OBUX-1C에 매뉴얼 Ver.2.2 근거 Tx Mode 딥 스위치 카드(1번 오디오, 2·3·4번 EDID 조합)를 넣고 전 제품 05 주요 기능의 "~한다/~다." 문장을 "~ 지원"·명사형으로 통일한 것은 `0.64.0`, OBHD-2C에 매뉴얼 KV01 근거 06 EDID 설정(MODE 로터리 0~D 전체 14칸 그림·코드표)을 추가하고 XDM-CT103/CR103 04 제품 사양의 전원(어댑터) 중복 행(CT103·CR103 각각 있던 동일 값)을 공통 행 하나로 합친 것은 `0.65.0`, XDM-CTR100·XDM-CTR100 PSE에 매뉴얼 Ver.1.4 근거 06 딥 스위치 설정(1·2번 TX/RX 모드 조합, 3번 전송 거리)을 추가하고 두 제품이 별도 페이지로 나뉜 뒤에도 남아 있던 04 제품 사양의 "공통"·자기 모델명 반복 표기를 정리하고 04 사양 "지원 케이블"을 "권장 케이블"로 바꾸고 분배기 4종(HD-13U·HD-104U·HD-108U·HD-210U) 단자 지도를 앞면·뒷면 합성 사진 한 장으로 바꿔 정면 로터리(·SET·MODE)에도 번호를 붙인 것은 `0.66.0`, QMS-88UX 06 화면 구성 모드 QUAD 레이아웃 목록에 매뉴얼 22~23쪽 Output Option 2·3 근거로 "8분할(비율무시)"을 13번째 항목으로 추가하고 분배기 4종(HD-13U·HD-104U·HD-108U·HD-210U) 05 주요 기능에 다단 증폭(캐스케이드 연결) 최대 3단 지원을 추가한 것은 `0.67.0`, XDM-FT101/FR101 단자 지도에 정면 MODE 로터리·S/P 번호를 추가하고 HD-D102U 05 주요 기능을 명사형으로 전면 재작성하고 HDS-21U·HDS-42MU "Audio Extraction"과 HD-210U EDID "Nothing" 표기를 통일하고 HDS-21U 딥 스위치 3번(분배)이 매뉴얼에 없는 기능이었음을 사용자 제공 매뉴얼로 확인해 삭제한 것은 `0.68.0`, HDS-21U·HDS-42MU 06 EDID 설정 안내 문장에서 "10번=A, 11번=B"처럼 10진수를 다시 설명하던 괄호를 완전히 지운 것은 `0.69.0`, 구성기 "섀시"를 "프레임"으로 통일하고 카드 팝업에 수량·순서대로 장착 버튼을 넣고 02 프레임 선택에 "함께 보면 좋은 제품"을 추가하고 빈 슬롯 공패널색을 통일하고 OBHD-2C EDID 로터리 번호를 매뉴얼 Ver.2.1 기준으로 정정하고 HD-D102U "스마트 EDID" 문구를 알기 쉽게 풀어 쓰고 HD-13U·XDM-CTR100 PSE "인증: KC 인증" 행을 삭제하고 HD-D102U 04 사양표를 HD-13U와 같은 구성으로 정리한 것은 `0.70.0`, OBHD-2C 04 제품 사양의 크기·무게·HDMI 규격을 사용자 결정에 따라 매뉴얼 Ver.2.1 값(128×89×25mm·0.36kg·HDMI 1.3)으로 바꾼 것은 `0.71.0`, OBHD-2C·OBUX-1C 04 제품 사양의 입력단자·출력단자(HDMI(female) 등 표기) 행을 삭제하고 전 제품(16종)의 mm/kg 옆 인치·lbs 병기를 지운 것은 `0.72.0`, XDM-PSU 전원 장치를 반영해 BOM의 임시 "전원 공급 장비"를 XDM-PSU(16칸당 1대)·XDM-POH(CTR100 Tx 1대당 1개)·XDM-PHX(COS100 1장당 1개)로 나누고 XDM-PSU를 30번째 제품으로 추가하고, HDS-21U·OBUX-1C 송신기·수신기 고해상도 실물 사진을 반영하고, CT103-U-H/CR103-U 04 제품 사양을 요약 형태로 정리한 것은 `0.73.0`, QMS-44UX 전면·후면 사진을 사용자가 직접 촬영한 고화질 사진으로 바꾸고 03 단자 지도 좌표를 재보정하고 새 사진에서 확인된 DOWNLOAD(Mini-USB) 포트를 추가한 것은 `0.74.0`, HD-108U 전면·후면 사진을 제조사에서 입수한 고화질 사진으로 바꾸고 03 단자 지도와 06 EDID 설정 로터리 스위치 좌표를 재보정한 것은 `0.75.0`, HDS-42MU 전면·후면 사진을 고화질로 바꾸고 단자 지도·EDID 좌표를 재보정한 것은 `0.76.0`, HD-13U·SPX-M810 전면·후면 사진을 고해상도로 바꾸고 HD-13U 단자 지도·EDID 좌표와 SPX-M810 구성기 카드 슬롯 좌표를 재측정한 것은 `0.77.0`, 사용자가 제공한 HD-104U 고해상도 전면·후면 사진(긴 변 약 2000px)으로 기존 저해상도 이미지를 교체하고 단자 지도·EDID 로터리 스위치 좌표를 새 사진 기준으로 다시 측정한 것은 `0.78.0`, 제품 상세에 등록된 제조사 카탈로그·매뉴얼 PDF만 "제품 목록" 옆 버튼(새 탭 보기·내려받기)으로 보여 주는 구조를 추가한 것은 `0.79.0`, 매트릭스 카드 상세 정보 버튼과 XDM·SPX·VDM 카드 26종 사양을 등록한 것은 `0.80.0`, 로컬 작업 환경(`DEVICE_WORKFLOW.md`, `.gitattributes`, `.claude/settings.json`)과 `input_doc` 자료 자동 분류(`.claude/skills/input-doc`, `scripts/input_doc.py`)를 추가한 것은 `0.81.0`, 제조사 자료 입출력 단자 표에서 방향("입력"·"출력"·"입출력")·수량(숫자) 칸이 좁은 화면에서 줄바꿈되던 문제를 30개 제품 전수 조사로 찾아 고친 것은 `0.82.0`, 제목에 송신기·수신기가 들어간 제품 10종의 라벨을 색으로 구분한 것은 `0.83.0`, input_doc 첫 정리(매뉴얼 20권·사양서 1장)로 VDM HOS4-U 카드 사양을 등록하고 CIS4-U·COS4-U·QOS4S-U를 매뉴얼 KV07 값으로 보완하고 input_doc 반영 장부(`docs/evidence/input-doc-ledger.json`)와 파일별 반영 표시(`input_doc/STATUS.md`)를 추가하고 검증된 PR의 병합·배포를 Claude가 이어서 하도록 규칙을 바꾼 것은 `0.84.0`, 카탈로그·매뉴얼 충돌 정리(`docs/audit/CATALOG_MANUAL_CONFLICTS_2026-09-28.md`) 결정대로 VDM -U 카드에 매뉴얼 해상도 행·SOS4 오디오 포트를 더하고 QMS-88UX 멀티뷰에 8분할(16:9 비율)을 추가한 것은 `0.85.0`, 카탈로그·매뉴얼 충돌 항목을 사용자 결정("새로준 자료 기준으로")에 따라 매뉴얼 값으로 통일한 것(HD-104U 전원 1A, XDM 전송기 3840x2160, VDM 광 카드 10km·-U 카드 4096×2160·HOS4S-UW 1920×1080)은 `0.86.0`, RT컴 제공 고해상도 실물 사진으로 XDM-CTR100·XDM-FT101·XDM-FR101·XDM-CT103 제품 사진·목록 카드·구성기 04 전송기 썸네일을 교체하고 CTR100·FT101·CT103 단자 지도를 새 사진으로 다시 합성하고 XDM-FR101 수신기 뒷면 단자 지도를 추가한 것은 `0.87.0`, 사용자 결정("1번")으로 input_doc 매뉴얼 17개를 공개 폴더에 올려 16개 제품 상세에 매뉴얼 PDF 버튼을 켠 것은 `0.88.0`, 사용자 확인("ctr100과 pse는 단자는 동일해")에 따라 XDM-CTR100·XDM-CTR100 PSE 단자 지도를 같은 합성 사진(앞면 PSE 제품 안내서 사진 + 뒷면 RT컴 CTR100 사진)으로 바꾼 것은 `0.89.0`, QMS-88UX 06 화면 구성 모드의 DUAL 카드("듀얼 모드" 한 마디뿐)를 매뉴얼 KV.04 20~21쪽 근거로 출력 9·10번 멀티뷰 설정의 2분할(PBP)·PIP 레이아웃 3종으로 채운 것은 `0.90.0`, XDM-CTR100 PSE 정면 사진을 사용자가 재확인("1번 맞아"·"적용시켜줘")한 원본 PNG에서 정확한 픽셀 경계로 다시 잘라 646×396으로 다시 저장한 것은 `0.91.0`, SPX-TX/SPX-RX 단자 지도 사진의 검은 배경을 흰색으로 바꾸고(사용자 요청) 전송기 6개 제품 사양의 ft(피트) 표기를 일괄 삭제한 것은 `0.92.0`, 전송기 9종 04 제품 사양 조건 칸의 "모델A·모델B 공통" 표기 55곳을 일괄 삭제하고 XDM-PSU에 "03 Signal Flow"(POH 입력 경로·PHX 출력 경로, 주황 전원 선) 그림을 추가한 것은 `0.93.0`, XDM-CTR100·XDM-CTR100 PSE 04 제품 사양의 최대 전송거리 3행을 1행으로 합치고 권장 케이블 행을 지우고 PSE 목록 썸네일을 정면 사진으로 바꾼 것은 `0.94.0`, 전체 카탈로그 46쪽판을 공용 파일(`rtcom-catalog-2026.pdf`) 하나로 공개해 29개 제품 상세의 카탈로그 PDF 버튼이 제품 쪽(`#page=N`)에서 열리고 제품 목록에 전체 카탈로그 버튼을 둔 것(사용자 결정 2026-09-28 "전체 카탈로그 공개해도 돼")은 `0.95.0`, QMS-88UX 06 화면 구성 모드의 QUAD·DUAL 설명 문장을 짧게 줄이고 매뉴얼 쪽 번호를 화면에 안 보이는 `page` 항목으로 옮기고 QMS-44UX QUAD 설명도 두 줄로 나눠 줄인 것(사용자 요청 "QMS-44, 88 모두 글이 너무 많아 좀 더 요약해줘")은 `0.96.0`, 전체 카탈로그 46쪽판에서 제품마다 해당 쪽만 뽑은 제품별 카탈로그 PDF 29개(`<제품id>-catalog.pdf`, XDM은 전송기 쪽을 뺀 4~9쪽, SPX-TX/RX는 16쪽)를 만들어 제품 상세 카탈로그 버튼에 연결한 것(사용자 결정 2026-09-28 "제품별로 잘라 공개")은 `0.97.0`, XDM-PSU "03 Signal Flow"를 제조사 연결도처럼 매트릭스 프레임(CIS100·COS100)·XDM-PSU(POH·PHX)·XDM-CTR100 Tx/Rx 장비 그림으로 다시 그리고 케이블을 따라 신호·전원이 흐르는 애니메이션을 넣은 것(사용자 요청 2026-09-28)은 `0.98.0`으로 기록했습니다. 다음 기능 묶음은 `0.99.0`을 목표로 하며, 실제 병합 전에는 검증된 canonical main commit을 확인합니다.
+- 구성기 단일 화면 전환은 `0.7.0`, Analog Way 방식 화면 개편은 `0.8.0`, 전송기 자동 연동은 `0.9.0`, HDMI 카드 PSE 쌍 연장은 `0.10.0`, SPX 매뉴얼 사진 슬롯은 `0.11.0`, VDM-256X 추가는 `0.12.0`, VDM 매뉴얼 후면 도면 슬롯은 `0.13.0`, 휴대폰 슬롯 겹침·뒤로가기 수정은 `0.14.0`, VDM 전면 도면은 `0.15.0`, 사진 슬롯 판넬 잘림 수정은 `0.16.0`, 장착 슬롯 번호표 숨김·구성 요약 카드 확대는 `0.17.0`, XDM 판넬 손나사 잘림 수정·VDM 전송기 연동·로고 홈 이동 확인은 `0.18.0`, 알티컴 공개 제품정보(29종) 재게시는 `0.19.0`, 제품정보 상세 표기를 에이앤미디어(antez.co.kr) 방식으로 정리한 것은 `0.20.0`, 데이터 기반 연결 다이어그램 추가는 `0.21.0`, 제품 사양 표를 구분·사양 2단으로 정리한 것은 `0.22.0`, 휴대폰 가로 스크롤(긴 출처 경로) 수정은 `0.23.0`, HD-14U·HD-18U 모델명 정정과 VDM CT102-U·FT102-U 계열 제외는 `0.24.0`, 제조사 카탈로그 원본 연결 다이어그램 적용은 `0.25.0`, 제품 사양 표 디자인(분류 색 점) 다듬기는 `0.26.0`, 새 카탈로그로 나머지 25종 재검증·XDM-CTR100 조합 다이어그램은 `0.27.0`, 연결 다이어그램 가로 스크롤 안내(그러데이션 표시)와 XDM-CTR100 케이블별 최대 전송거리(CI6522 80m) 추가는 `0.28.0`, VDM HOS4-U·HOS4S-UW 카드 설명을 스위칭 방식(일반·심리스)으로 정리하고 XDM-288을 구성기에서 삭제한 것은 `0.29.0`, XDM-CTR100 연결 다이어그램 조합 1을 매트릭스 카드 직결 배선으로 바로잡고 제조사 원본 다이어그램에 출처 캡션·표기 다름 경고를 추가하고 6개 제품과 SPX 다이어그램을 다시 잘라낸 것은 `0.30.0`, VDM 전송기 4종(CT101-U/CR101-U·CT103-U-H/CR103-U·FT101-U/FR101-U·FT103-U-H/FR103-U)에 RS-232 단자 행을 추가하고 이 4종과 CT104-U/CR104-U를 46쪽판과 재대조하고 27종 전체의 카탈로그 쪽 표기를 46쪽판 기준으로 통일한 것은 `0.31.0`, `docs/audit/PRODUCT_DIAGRAM_REVIEW_2026-09-27.md` §6 판단표대로 13개 제품의 검토 필요 항목을 정리해 REVIEW REQUIRED 배지를 없앤 것은 `0.32.0`, 제품정보 화면을 사용자 LED 구성기 계승 글래스 디자인으로 개편한 것(`docs/handoff/PRODUCT_GLASS_REDESIGN_SPEC.md` 6-A: 기반·HD-210U·XDM·VDM·SPX)은 `0.33.0`, 나머지 23종(분배기·일체형·전송기·케이블)에 lead·subtitle·portMap을 채우고 분배기·일체형 신호 흐름을 승인 시안 방식으로 바꾸고 QMS 화면 구성 모드(videoModes)를 추가한 것(6-B)은 `0.34.0`, HD-13U 상세에 전면 EDID 로터리 스위치 위치 표시와 EDID 코드표(edidSwitch, 사용자 제공 매뉴얼 근거)를 추가한 것은 `0.35.0`, HD-104U·HD-108U 모델명 표기를 0.24.0 정정 이전으로 되돌리고(사용자 확인 2026-09-27: 카탈로그 표기는 HD-104U·HD-108U이며 실크만 14U·18U로 변경 예정) HD-210U 전면 설정 스위치(딥 스위치·EDID 로터리) 추가와 신호 흐름 매트릭스 판정 복원을 함께 묶은 것은 `0.36.0`, 매트릭스 구성기 화면을 Analog Way 구조 + LED 글래스 스킨으로 개편하고 블랭크 커버(`placements`의 예약값 `"BLANK"`)로 슬롯 구성을 완성하는 기능을 추가한 것(`docs/handoff/CONFIGURATOR_AW_GLASS_SPEC.md`, 사용자 결정 2026-09-27)은 `0.37.0`, 0.37.0에서 시안과 다르게 남겨 둔 04 전송기 화면을 사용자 검토 후 좌우 분할 구조(01·02와 같은 틀)로 다시 지은 것(`docs/implementation/CONFIGURATOR_AW_GLASS.md` "04 전송기(편차 — 0.38.0에서 해소)")은 `0.38.0`, 제품 상세 "01 한눈에 보기" 위에 큰 사진 띠와 누르면 확대되는 돋보기(라이트박스)를 추가하고 화면에 보이는 제품 사양·주요 기능의 "up to" 표기를 "최대"로 통일하고 제품정보 "확인 사항" 118건을 2건으로 정리(HD-210U 크기 355mm 정정, `docs/audit/PRODUCT_ISSUES_ARCHIVE_2026-09-27.md`)한 것은 `0.39.0`, HD-13U "05 주요 기능"에 오디오 병합(믹스)·추출(디먹스) 동시 사용 안내(매뉴얼 7쪽 근거)를 추가한 것은 `0.40.0`, 분배기(HD-13U·HD-104U·HD-108U·HD-210U) EDID 로터리 코드표에서 자주 쓰는 1·7번을 강조하고 "02 신호 흐름"에 오디오 병합·추출(AUDIO OUT·"추출" 표시)을 추가한 것은 `0.41.0`, 사진 없이 입출력 표 카드로만 보이던 7종(HD-D102U·XDM-CTR100·전송기 5종)의 단자 지도를 HD-13U처럼 실제 제품 사진 기준으로 바꾸고 `portMap`이 송신기·수신기 사진 여러 장을 받게 한 것은 `0.42.0`, HDS-21U·HDS-42MU에 EDID 로터리(edidSwitch)를 추가하고 오디오 병합 설명을 "HDMI OUTPUT에 실리는 오디오" 기준으로 정정하고 분배기·선택기 필터를 HDMI 출력 개수 순으로 정렬하고 XDM-CTR100 "02 신호 흐름" 케이블 최대 전송거리 표기를 다이어그램 하단 한쪽으로 모은 것은 `0.43.0`, 분배기·선택기 필터 정렬을 분배기(Splitter)가 먼저 나오고 셀렉터(Switcher)가 나중에 나오도록(같은 종류 안에서는 HDMI 출력 개수 순) 바꾼 것은 `0.44.0`, 사용자 제공 매뉴얼 3권으로 벽부형 XDM-CT103·CT103-U-H/CR103-U·FT103-U-H/FR103-U의 단자 지도·사양·EDID 표를 보완하고 단자 지도에 세로 괄호·표시 폭·안내 줄을 추가한 것은 `0.45.0`, XDM-CTR100 PSE 제품 안내서와 XDM-CTR100 매뉴얼 Ver.1.4로 CTR100 단자 역할(HDMI IN·OUT, 5핀 오디오 출력, 상태 LED)·딥 스위치 설정·PSE 크기·전원을 보완한 것은 `0.46.0`, 옛 PR #22에만 있던 사용자 결정(XDM-CTR100과 XDM-CTR100 PSE를 별도 제품으로 분리해 28종, QMS-88UX 쿼드 뷰 출력 9·10번 사용법, 모델명 줄바꿈 방지)을 현재 main 기준으로 다시 옮기고 HD-13U 오디오 병합·추출을 선택 방식으로 정정해 07 오디오 설정 카드를 추가하고 모든 제품의 단자 지도 번호를 HDMI 입력 → 출력 → 오디오 → … → 전원(마지막) 순으로 통일한 것은 `0.47.0`, QMS-88UX 출력 9·10번 멀티뷰의 12가지 레이아웃·입력 그룹·출력 옵션을 사용자 제공 매뉴얼 20~23쪽 근거로 "주요 기능"에 적은 것은 `0.48.0`, HDS-21U·HDS-42MU 오디오 병합·추출을 딥 스위치 1번 선택 방식으로 정정하고 07 오디오 설정 카드를 추가하고 사용자 제공 매뉴얼 Ver.1.0으로 Priority·분배 기능 딥 스위치를 보완하고 제품 사진 팝업을 사용자 LED 계산기 "05 프로세서" 방식(사진 탭·원형 돋보기)으로 바꾼 것은 `0.49.0`, QMS-88UX "02 신호 흐름"에서 멀티뷰 출력 9·10번을 매트릭스 출력과 분리된 별도 갈래(패널·캡션)로 다시 그리고 "05 주요 기능" 멀티뷰 항목을 요약하고 오디오 출력 2개(QD1·QD2)가 선택 가능한 출력임을 반영한 것은 `0.50.0`, QMS-88UX "04 제품 사양"의 조건 칸(부설)을 모두 비우고 LAN(Telnet & Web Browser) 표기를 사양·기능·개요·단자 지도에서 모두 뺀 것은 `0.51.0`, HDS-42MU 크기를 사용자 결정에 따라 매뉴얼 값 232×65×30mm로 바꾸고 제품 상세의 "자료 출처·검토 기록"을 "제조사 자료"로 이름을 바꿔 화면의 출처 표시를 뺀 것은 `0.52.0`, QMS-88UX 오디오 QD1·QD2 설명 정리·"02 신호 흐름" 오디오 추출 점선과 멀티뷰 8입력분할 표현 정리·입출력 단자 표 정렬 통일(TX→구분 없음→RX, 영상→오디오→전송→제어, 입력→출력→양방향)·"제조사 자료"에서 표기 다름·참고 사항도 추가로 뺀 것과 조건 칸의 출처 문구를 지우고 "05 주요 기능"을 한 줄 요약으로 줄인 것(상세는 06·07 카드·사양·단자 지도로 이동)은 `0.53.0`, XDM-CTR100·CTR100 PSE "04 제품 사양"의 딥 스위치 행을 다시 삭제(딥 스위치는 05 주요 기능에서만 안내)하고 전 제품 "05 주요 기능"을 추가로 압축하고 매트릭스 COS/CIS/FIS/FOS 카드와 짝인 전송기 3종(XDM-CTR100·CTR100 PSE·FT101/FR101)에 RS-232+ 패스스루(AMX 등 통합 제어 신호를 매트릭스·전송기 너머로 전달) 안내를 추가하고 "02 신호 흐름"의 케이블 최대 전송거리 표기를 범례 "출력" 항목 오른쪽으로 옮긴 것은 `0.54.0`, 구성기 확인 창을 사이트 글래스 스타일 대화상자로 바꾸고 카드 팝업에 수량 채우기와 같은 방향 슬롯 이동(끌어 옮기기·팝업 이동)을 추가하고 XDM 세로 슬롯 카드를 180도 돌리고 2U 이상만 정면·후면 버튼(그보다 작으면 정면 사진과 포트 연결면을 함께 표시)으로 하고 구성기 작업 단계 표기를 한글로 바꾸고 Delete 키 카드 빼기와 XDM RS-232+(CIS·COS·FIS·FOS 카드와 짝 전송기) 표기를 더한 것은 `0.55.0`, 전 제품 "05 주요 기능" 카탈로그 어투 통일("~ 지원")·"01 한눈에 보기" 위 사진 띠 삭제·"02 신호 흐름"과 "03 단자 지도" 순서 교체 및 영문 표기(Signal Flow·Port Map)·화면 구성 모드 등 06 카드를 05 옆으로 배치·QMS-88UX 06 화면 구성 모드 레이아웃 12종 클릭 미리보기 추가·HDS-21U·HDS-42MU 단자 지도를 정면·후면 선택 버튼 없이 위아래 합성 사진 한 장(번호 1~7, EDID 로터리 6번·전원 7번)으로 바꾼 것은 `0.56.0`, 05 옆으로 옮긴 06 카드가 휴대폰에서 01보다 먼저 뜨던 순서 버그를 고치고(rt-pg-col-mobile-6 클래스 추가) 15개 제품 "05 주요 기능"의 "~할 수 있다." 표현 24곳을 명사형으로 정리한 것은 `0.57.0`, HDS-21U·HDS-42MU 단자 지도에 MODE 딥 스위치 번호(7번)를 추가하고 07 오디오 설정 카드를 딥 스위치 그림(번호별 OFF·ON) 카드인 07 딥 스위치 설정으로 바꾸고(1번 오디오 병합·추출, 2번 Priority, 42MU만 3번 분배) 04 제품 사양의 딥 스위치 행과 05 주요 기능의 긴 설명을 이 카드로 옮기고 매트릭스 제품(QMS-44UX·QMS-88UX·HDS-42MU) "03 Signal Flow"를 입력이 한 점으로 모이는 모양 대신 크로스포인트(출력마다 입력 선택 예시)로 다시 그리고 HDS-42MU 정면 사진의 잘못 인쇄된 실크(MODE·EDID)를 사진 안에서 서로 바꾼 것은 `0.58.0`, EDID 로터리 태그 잘림·06 EDID 카드 배치·긴 코드표 좌우 분할을 고치고 EDID 설정 카드에 기본값·자주 쓰는 코드를 파란 16단 로터리 그림(화살표가 코드를 가리킴)으로 보여주고 HDS-21U·HDS-42MU(3·9번)·FT103-U-H/FR103-U(3·6번)에 자주 쓰는 코드 강조를 더하고 EDID 코드표 세로 크기를 줄인 것은 `0.59.0`, 04 제품 사양 표 줄 간격을 약 15% 줄이고 03 Signal Flow에서 AUDIO OUT "추출" 표시가 잘리던 그림 너비 계산을 고친 것은 `0.60.0`, HD-13U 07 오디오 설정을 06 EDID 다음 전체 폭으로 옮겨 잘림·번호 뒤집힘을 고치고 EDID 대표 설정과 같은 칸 4개(MODE 로터리 0번 → SET 누름 → OUT 1 LED 깜빡임·깜빡이지 않음)를 넣고 HD-210U에 매뉴얼 Ver.1.2 근거 07 딥 스위치 설정 카드(1번 오디오 병합, 2번 DDC)를 추가한 것은 `0.61.0`, 딥 스위치 카드가 있는 HD-210U·HDS-21U·HDS-42MU의 05 주요 기능에서 스위치 번호 참조를 지우고 HD-210U(5줄)·HD-13U(3줄) 05 주요 기능을 기능 이름만 남겨 정리하고 HDS-21U·HDS-42MU 딥 스위치 칸을 ON → OFF 순서로 바꾼 것은 `0.62.0`, QMS-44UX·QMS-88UX "06 화면 구성 모드" 카드가 05 옆 좁은 칸에 들어가면서 모드 카드 설명·레이아웃 칩이 카드 밖으로 넘치던 문제를 edidSwitch와 같은 기준(항상 전체 폭 아래)으로 고친 것은 `0.63.0`, SPX-TX/RX 전송기를 29번째 제품으로 추가(매뉴얼 Ver.2.0: 사양·단자 지도·딥 스위치 조합)하고 XDM-FT101/FR101에 매뉴얼 Ver.1.3 근거 EDID·오디오 로터리 카드(전체 8칸 그림)를 넣고 SPX 안내·범례의 HDBaseT 표기를 CATx로 바로잡고 OBUX-1C에 매뉴얼 Ver.2.2 근거 Tx Mode 딥 스위치 카드(1번 오디오, 2·3·4번 EDID 조합)를 넣고 전 제품 05 주요 기능의 "~한다/~다." 문장을 "~ 지원"·명사형으로 통일한 것은 `0.64.0`, OBHD-2C에 매뉴얼 KV01 근거 06 EDID 설정(MODE 로터리 0~D 전체 14칸 그림·코드표)을 추가하고 XDM-CT103/CR103 04 제품 사양의 전원(어댑터) 중복 행(CT103·CR103 각각 있던 동일 값)을 공통 행 하나로 합친 것은 `0.65.0`, XDM-CTR100·XDM-CTR100 PSE에 매뉴얼 Ver.1.4 근거 06 딥 스위치 설정(1·2번 TX/RX 모드 조합, 3번 전송 거리)을 추가하고 두 제품이 별도 페이지로 나뉜 뒤에도 남아 있던 04 제품 사양의 "공통"·자기 모델명 반복 표기를 정리하고 04 사양 "지원 케이블"을 "권장 케이블"로 바꾸고 분배기 4종(HD-13U·HD-104U·HD-108U·HD-210U) 단자 지도를 앞면·뒷면 합성 사진 한 장으로 바꿔 정면 로터리(·SET·MODE)에도 번호를 붙인 것은 `0.66.0`, QMS-88UX 06 화면 구성 모드 QUAD 레이아웃 목록에 매뉴얼 22~23쪽 Output Option 2·3 근거로 "8분할(비율무시)"을 13번째 항목으로 추가하고 분배기 4종(HD-13U·HD-104U·HD-108U·HD-210U) 05 주요 기능에 다단 증폭(캐스케이드 연결) 최대 3단 지원을 추가한 것은 `0.67.0`, XDM-FT101/FR101 단자 지도에 정면 MODE 로터리·S/P 번호를 추가하고 HD-D102U 05 주요 기능을 명사형으로 전면 재작성하고 HDS-21U·HDS-42MU "Audio Extraction"과 HD-210U EDID "Nothing" 표기를 통일하고 HDS-21U 딥 스위치 3번(분배)이 매뉴얼에 없는 기능이었음을 사용자 제공 매뉴얼로 확인해 삭제한 것은 `0.68.0`, HDS-21U·HDS-42MU 06 EDID 설정 안내 문장에서 "10번=A, 11번=B"처럼 10진수를 다시 설명하던 괄호를 완전히 지운 것은 `0.69.0`, 구성기 "섀시"를 "프레임"으로 통일하고 카드 팝업에 수량·순서대로 장착 버튼을 넣고 02 프레임 선택에 "함께 보면 좋은 제품"을 추가하고 빈 슬롯 공패널색을 통일하고 OBHD-2C EDID 로터리 번호를 매뉴얼 Ver.2.1 기준으로 정정하고 HD-D102U "스마트 EDID" 문구를 알기 쉽게 풀어 쓰고 HD-13U·XDM-CTR100 PSE "인증: KC 인증" 행을 삭제하고 HD-D102U 04 사양표를 HD-13U와 같은 구성으로 정리한 것은 `0.70.0`, OBHD-2C 04 제품 사양의 크기·무게·HDMI 규격을 사용자 결정에 따라 매뉴얼 Ver.2.1 값(128×89×25mm·0.36kg·HDMI 1.3)으로 바꾼 것은 `0.71.0`, OBHD-2C·OBUX-1C 04 제품 사양의 입력단자·출력단자(HDMI(female) 등 표기) 행을 삭제하고 전 제품(16종)의 mm/kg 옆 인치·lbs 병기를 지운 것은 `0.72.0`, XDM-PSU 전원 장치를 반영해 BOM의 임시 "전원 공급 장비"를 XDM-PSU(16칸당 1대)·XDM-POH(CTR100 Tx 1대당 1개)·XDM-PHX(COS100 1장당 1개)로 나누고 XDM-PSU를 30번째 제품으로 추가하고, HDS-21U·OBUX-1C 송신기·수신기 고해상도 실물 사진을 반영하고, CT103-U-H/CR103-U 04 제품 사양을 요약 형태로 정리한 것은 `0.73.0`, QMS-44UX 전면·후면 사진을 사용자가 직접 촬영한 고화질 사진으로 바꾸고 03 단자 지도 좌표를 재보정하고 새 사진에서 확인된 DOWNLOAD(Mini-USB) 포트를 추가한 것은 `0.74.0`, HD-108U 전면·후면 사진을 제조사에서 입수한 고화질 사진으로 바꾸고 03 단자 지도와 06 EDID 설정 로터리 스위치 좌표를 재보정한 것은 `0.75.0`, HDS-42MU 전면·후면 사진을 고화질로 바꾸고 단자 지도·EDID 좌표를 재보정한 것은 `0.76.0`, HD-13U·SPX-M810 전면·후면 사진을 고해상도로 바꾸고 HD-13U 단자 지도·EDID 좌표와 SPX-M810 구성기 카드 슬롯 좌표를 재측정한 것은 `0.77.0`, 사용자가 제공한 HD-104U 고해상도 전면·후면 사진(긴 변 약 2000px)으로 기존 저해상도 이미지를 교체하고 단자 지도·EDID 로터리 스위치 좌표를 새 사진 기준으로 다시 측정한 것은 `0.78.0`, 제품 상세에 등록된 제조사 카탈로그·매뉴얼 PDF만 "제품 목록" 옆 버튼(새 탭 보기·내려받기)으로 보여 주는 구조를 추가한 것은 `0.79.0`, 매트릭스 카드 상세 정보 버튼과 XDM·SPX·VDM 카드 26종 사양을 등록한 것은 `0.80.0`, 로컬 작업 환경(`DEVICE_WORKFLOW.md`, `.gitattributes`, `.claude/settings.json`)과 `input_doc` 자료 자동 분류(`.claude/skills/input-doc`, `scripts/input_doc.py`)를 추가한 것은 `0.81.0`, 제조사 자료 입출력 단자 표에서 방향("입력"·"출력"·"입출력")·수량(숫자) 칸이 좁은 화면에서 줄바꿈되던 문제를 30개 제품 전수 조사로 찾아 고친 것은 `0.82.0`, 제목에 송신기·수신기가 들어간 제품 10종의 라벨을 색으로 구분한 것은 `0.83.0`, input_doc 첫 정리(매뉴얼 20권·사양서 1장)로 VDM HOS4-U 카드 사양을 등록하고 CIS4-U·COS4-U·QOS4S-U를 매뉴얼 KV07 값으로 보완하고 input_doc 반영 장부(`docs/evidence/input-doc-ledger.json`)와 파일별 반영 표시(`input_doc/STATUS.md`)를 추가하고 검증된 PR의 병합·배포를 Claude가 이어서 하도록 규칙을 바꾼 것은 `0.84.0`, 카탈로그·매뉴얼 충돌 정리(`docs/audit/CATALOG_MANUAL_CONFLICTS_2026-09-28.md`) 결정대로 VDM -U 카드에 매뉴얼 해상도 행·SOS4 오디오 포트를 더하고 QMS-88UX 멀티뷰에 8분할(16:9 비율)을 추가한 것은 `0.85.0`, 카탈로그·매뉴얼 충돌 항목을 사용자 결정("새로준 자료 기준으로")에 따라 매뉴얼 값으로 통일한 것(HD-104U 전원 1A, XDM 전송기 3840x2160, VDM 광 카드 10km·-U 카드 4096×2160·HOS4S-UW 1920×1080)은 `0.86.0`, RT컴 제공 고해상도 실물 사진으로 XDM-CTR100·XDM-FT101·XDM-FR101·XDM-CT103 제품 사진·목록 카드·구성기 04 전송기 썸네일을 교체하고 CTR100·FT101·CT103 단자 지도를 새 사진으로 다시 합성하고 XDM-FR101 수신기 뒷면 단자 지도를 추가한 것은 `0.87.0`, 사용자 결정("1번")으로 input_doc 매뉴얼 17개를 공개 폴더에 올려 16개 제품 상세에 매뉴얼 PDF 버튼을 켠 것은 `0.88.0`, 사용자 확인("ctr100과 pse는 단자는 동일해")에 따라 XDM-CTR100·XDM-CTR100 PSE 단자 지도를 같은 합성 사진(앞면 PSE 제품 안내서 사진 + 뒷면 RT컴 CTR100 사진)으로 바꾼 것은 `0.89.0`, QMS-88UX 06 화면 구성 모드의 DUAL 카드("듀얼 모드" 한 마디뿐)를 매뉴얼 KV.04 20~21쪽 근거로 출력 9·10번 멀티뷰 설정의 2분할(PBP)·PIP 레이아웃 3종으로 채운 것은 `0.90.0`, XDM-CTR100 PSE 정면 사진을 사용자가 재확인("1번 맞아"·"적용시켜줘")한 원본 PNG에서 정확한 픽셀 경계로 다시 잘라 646×396으로 다시 저장한 것은 `0.91.0`, SPX-TX/SPX-RX 단자 지도 사진의 검은 배경을 흰색으로 바꾸고(사용자 요청) 전송기 6개 제품 사양의 ft(피트) 표기를 일괄 삭제한 것은 `0.92.0`, 전송기 9종 04 제품 사양 조건 칸의 "모델A·모델B 공통" 표기 55곳을 일괄 삭제하고 XDM-PSU에 "03 Signal Flow"(POH 입력 경로·PHX 출력 경로, 주황 전원 선) 그림을 추가한 것은 `0.93.0`, XDM-CTR100·XDM-CTR100 PSE 04 제품 사양의 최대 전송거리 3행을 1행으로 합치고 권장 케이블 행을 지우고 PSE 목록 썸네일을 정면 사진으로 바꾼 것은 `0.94.0`, 전체 카탈로그 46쪽판을 공용 파일(`rtcom-catalog-2026.pdf`) 하나로 공개해 29개 제품 상세의 카탈로그 PDF 버튼이 제품 쪽(`#page=N`)에서 열리고 제품 목록에 전체 카탈로그 버튼을 둔 것(사용자 결정 2026-09-28 "전체 카탈로그 공개해도 돼")은 `0.95.0`, QMS-88UX 06 화면 구성 모드의 QUAD·DUAL 설명 문장을 짧게 줄이고 매뉴얼 쪽 번호를 화면에 안 보이는 `page` 항목으로 옮기고 QMS-44UX QUAD 설명도 두 줄로 나눠 줄인 것(사용자 요청 "QMS-44, 88 모두 글이 너무 많아 좀 더 요약해줘")은 `0.96.0`, 전체 카탈로그 46쪽판에서 제품마다 해당 쪽만 뽑은 제품별 카탈로그 PDF 29개(`<제품id>-catalog.pdf`, XDM은 전송기 쪽을 뺀 4~9쪽, SPX-TX/RX는 16쪽)를 만들어 제품 상세 카탈로그 버튼에 연결한 것(사용자 결정 2026-09-28 "제품별로 잘라 공개")은 `0.97.0`, XDM-PSU "03 Signal Flow"를 제조사 연결도처럼 매트릭스 프레임(CIS100·COS100)·XDM-PSU(POH·PHX)·XDM-CTR100 Tx/Rx 장비 그림으로 다시 그리고 케이블을 따라 신호·전원이 흐르는 애니메이션을 넣은 것(사용자 요청 2026-09-28)은 `0.98.0`, 그 그림의 XDM-COS100을 포트마다 RJ45+피닉스 5핀으로 고쳐 PHX 2핀 전원선이 1번 포트 피닉스 단자에 꽂히게 하고(사용자 확인 "COS PHNIX픽에 전원연결") XDM-PSU Signal Flow에만 "크게 보기" 확대 창(100~300%)을 넣은 것은 `0.99.0`으로 기록했습니다. 다음 기능 묶음은 `0.100.0`을 목표로 하며, 실제 병합 전에는 검증된 canonical main commit을 확인합니다.
 - 모든 작업은 구현 문서, QA 문서 또는 감사 문서에 근거와 결과를 남깁니다.
 
 ## 로컬 작업과 input_doc

diff --git a/CHANGELOG.md b/CHANGELOG.md
@@ -16,6 +16,11 @@
 
 - **0.90.0 배포 기록**: `docs/qa/DEPLOYMENT_0.90_2026-09-28.md`(PR #85 → main 병합, 배포 run 64, 공개 파일 242/242 일치, 비공개 파일 6개 404)
 
+## 0.99.0
+
+- **XDM-PSU Signal Flow COS100 전원 연결 정정**(사용자 확인 2026-09-28 "COS카드 쪽만 수정하면 될거 같아 COS PHNIX픽에 전원연결되는거", 카탈로그 XDM-COS100 사진): COS100 카드 그림을 포트마다 RJ45 아래 초록 피닉스 5핀(오디오 추출 및 PoE)이 있는 모양으로 바꾸고, PHX 2핀 전원선이 카드 아래쪽 별도 단자가 아니라 1번 포트 피닉스 단자에 꽂히도록 경로를 고쳤습니다. 전원선과 COS100→Rx CAT 케이블은 프레임 위에 그려 꽂히는 곳이 보입니다.
+- **XDM-PSU Signal Flow "크게 보기"**(사용자 요청 "xdm-psu만 03 Singal flow 확대해서 볼 수 있게해줘", "이것만 확대 버튼이 만드는건 어때?"): XDM-PSU 그림 위에 "⤢ 크게 보기" 버튼을 두고(그림을 눌러도 열림) 전체 화면 창에서 100·150·200·300%로 키워 스크롤·손가락으로 옮겨 봅니다. 애니메이션도 그대로 움직이며 Esc·×·바깥 누르기로 닫습니다. 다른 제품에는 버튼이 없습니다. 근거: `docs/qa/PSU_SIGNAL_FLOW_QA_2026-09-28.md` "0.99.0" 절.
+
 ## 0.98.0
 
 - **XDM-PSU "03 Signal Flow" 장비 그림·연결 애니메이션**(사용자 요청 2026-09-28 "딥스위치를 이미지화 했던 것처럼 해당 제품을 그렇게 애니메이션 이미지화해서 실제 연결처럼 표현해줘", 제조사 MAX2-POE-PSU 연결도 참고): 상자 도식이던 그림을 제조사 연결도 배치대로 다시 그렸습니다. 위에 매트릭스 프레임(XDM-CIS100·XDM-COS100 카드 강조), 가운데 XDM-PSU 후면(POH RJ45 CIS Card·Extender, PHX 2핀, AC 입력), 아래에 XDM-CTR100 Tx·Rx 뒷면(RJ45·HDMI·피닉스, 상태 LED)을 딥 스위치 그림과 같은 평면 장비 그림으로 두었습니다. 케이블은 실제 경로대로 이었습니다: CIS100↔POH CIS Card(CAT 신호), POH Extender↔CTR100 Tx(CAT 신호+전원, 전원은 PSU→Tx 역방향), PHX→COS100(2핀 적·흑 전원선), COS100→CTR100 Rx(CAT 신호+전원), 소스→Tx·Rx→디스플레이(HDMI). 케이블 위 점선이 신호(초록)·전원(주황)·HDMI(파랑·보라) 방향으로 흐르고 CTR100 상태 LED가 깜빡입니다. 움직임 줄이기 설정에서는 멈춥니다. 근거: `docs/qa/PSU_SIGNAL_FLOW_QA_2026-09-28.md`.

diff --git a/docs/qa/PSU_SIGNAL_FLOW_QA_2026-09-28.md b/docs/qa/PSU_SIGNAL_FLOW_QA_2026-09-28.md
@@ -45,3 +45,22 @@
 ## 되돌리기
 
 병합 커밋을 revert하면 이전 상자 도식으로 돌아갑니다.
+
+## 0.99.0 추가: COS100 피닉스 전원 연결 정정과 "크게 보기"
+
+- 사용자 확인: "COS카드 쪽만 수정하면 될거 같아 COS PHNIX픽에 전원연결되는거 이거든"(카탈로그 XDM-COS100 사진 첨부)
+  - 카드 사양: 피닉스 5핀 암(오디오 추출 및 PoE), `src/card-specs.js` XDM-COS100
+  - COS100 그림을 포트 4개마다 RJ45 + 아래 피닉스 5핀으로 바꿨습니다. 이전에는 카드 아래쪽에 따로 2핀 단자를 그렸습니다.
+  - PHX 2핀 전원선이 1번 포트 피닉스 단자(`.rt-psu-cos-pin`)에 꽂히게 했습니다. 경로는 빈 8번 칸 위를 지납니다.
+  - 전원선과 COS100 → Rx CAT 케이블은 프레임 위에 그려, 카드에 꽂히는 곳이 보이게 했습니다.
+  - CIS100 쪽은 사용자 지시대로 그대로 두었습니다.
+- 사용자 요청: "xdm-psu만 03 Singal flow 확대해서 볼 수 있게해줘", "이것만 확대 버튼이 만드는건 어때?"
+  - XDM-PSU `psuDiagram`에만 "⤢ 크게 보기" 버튼(`data-flow-zoom`)을 넣었습니다. 그림을 눌러도 창이 열립니다.
+  - 창(`dialog.rt-flow-zoom`)은 그림을 그대로 복사해 화면 폭에 맞춘 100%에서 시작하고, −/+로 150·200·300%까지 키웁니다. 창 안에서 스크롤하거나 손가락으로 옮겨 봅니다.
+  - Esc·×·바깥 누르기로 닫힙니다. 인쇄할 때는 버튼을 숨깁니다.
+- 화면: `docs/qa/psu-flow-screens/psu-flow-*.png`(1280·390), `psu-zoom-1280-100/200.png`, `psu-zoom-390-100/200.png`
+- e2e 새 검사 확인 사항
+  - COS100 피닉스 전원 연결 1곳
+  - 창에서 +1번에 150%, 그림이 창보다 넓어짐
+  - Esc로 닫힘
+  - XDM-CTR100에는 확대 버튼 0개

diff --git a/README.md b/README.md
@@ -1,6 +1,6 @@
 # RTCOM Matrix Configurator
 
-**현재 버전: 0.98** · XDM·SPX·VDM 매트릭스의 프레임과 카드 슬롯을 구성하는 도구(Analog Way 구조 + LED 글래스 스킨 + 블랭크 커버, 04 전송기도 좌우 분할)와 알티컴 공개 제품정보(30종, 글래스 디자인·연결 다이어그램)를 제공합니다.
+**현재 버전: 0.99** · XDM·SPX·VDM 매트릭스의 프레임과 카드 슬롯을 구성하는 도구(Analog Way 구조 + LED 글래스 스킨 + 블랭크 커버, 04 전송기도 좌우 분할)와 알티컴 공개 제품정보(30종, 글래스 디자인·연결 다이어그램)를 제공합니다.
 
 프레임을 고르고 실제 슬롯 위치에 입력·출력 카드를 장착한 뒤, 전송기와 BOM을 검토하고 JSON·CSV·인쇄 보고서로 내보냅니다. 0.19부터 알티컴 브로셔 수준 제품정보의 원본은 이 저장소(`data/products/`)이며, 머리글의 "알티컴 제품정보" 탭에서 봅니다. 비공개 AV Portal은 이 공개 데이터를 읽기만 합니다([인계 문서](docs/handoff/AV_PORTAL_RTCOM_PRODUCT_DATA.md)). 실제 슬롯·설치 허용표와 전원·케이블 조건은 확정 전이며, 모든 내보내기는 `UNVERIFIED_DRAFT`로 표시합니다.
 
